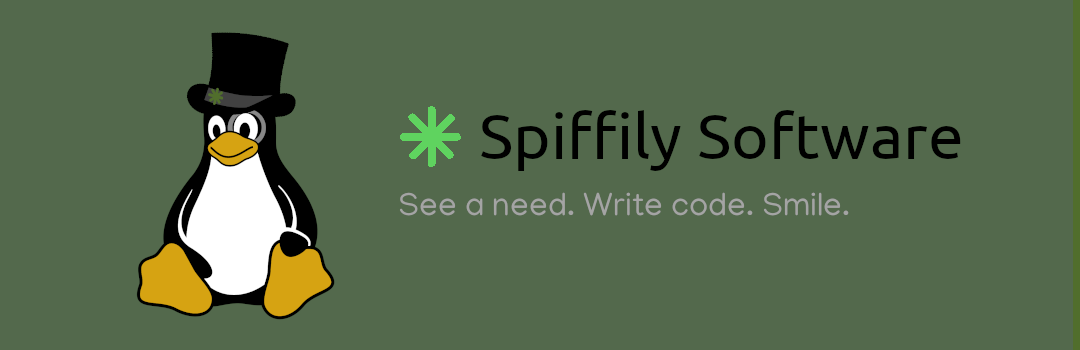
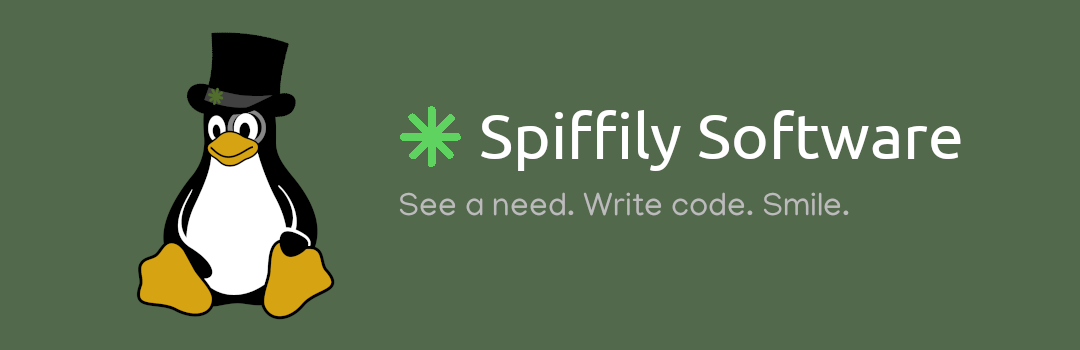
Pretty good start!

Changed region(s): [[0.4278, 0.3143, 0.8861, 0.4857], [0.9778, 0.0, 1.0, 1.0]]

diff --git a/index.html b/index.html
@@ -7,7 +7,35 @@
   <link rel="icon" href="./favicon.png" type="image/png">
 </head>
 <body>
-  <div class="banner" style="width:100%; height:350px; background-image:url('./assets/spiffily-banner.png');"><h1 style="display:none;">Spiffily Software</h1></div>
-  <!-- <img class="banner" src="./assets/Spiffily Banner.png" alt="Spiffily Software"> -->
+  <div class="banner" style="background-image: url(./assets/spiffily-banner.png); height: 350px; background-size: 1080px 350px;"></div>
+  <div class="toolbar">
+    <img src="./assets/spiffily-star.png" style="height:37px;width:37px;" alt="Spiffy Star">
+    <a href="./index.html"><h1>Home</h1></a>
+    <a href="./apps.html"><p>Apps</p></a>
+    <a href="./tutorials.html"><p>Tutorials</p></a>
+    <a href="./resources.html"><p>Resources</p></a>
+    <a href="./about.html"><p>About</p></a>
+  </div>
+
+  <div class="row">
+    <p>Spiffily Software is a software development group which writes code. Yes.</p>
+    <a href="#">Go to repository >>></a>
+    <p>That is to say, we are a group of developers who sees a need and responds by writing code. Our collection of code is hosted and published as a team. Our code, tutorials and resources are free and open-source forever. Please enjoy!</p>
+  </div>
+  <div class="banner row" style="background-image: url(./assets/cougar-backdrop.jpg);">
+    <h1>The Coronado App</h1>
+    <p>Sometimes it's just a little annoying to log into and check every single website that different teachers use (all for good reasons too)! Wouldn't it be nice if all the sites, notifications, assignments and calendars where in one place? Now they are. That's what this app if for.</p>
+    <b>The first release is scheduled for August 17!</b>
+  </div>
+  <div class="row">
+    <p>Spiffily Software is a software development group which writes code. Yes.</p>
+    <a href="#">Go to repository >>></a>
+    <p>That is to say, we are a group of developers who sees a need and responds by writing code. Our collection of code is hosted and published as a team. Our code, tutorials and resources are free and open-source forever. Please enjoy!</p>
+  </div>
+  <div class="banner row" style="background-image: url(./assets/cougar-backdrop.jpg);">
+    <h1>The Coronado App</h1>
+    <p>Sometimes it's just a little annoying to log into and check every single website that different teachers use (all for good reasons too)! Wouldn't it be nice if all the sites, notifications, assignments and calendars where in one place? Now they are. That's what this app if for.</p>
+    <b>The first release is scheduled for August 17!</b>
+  </div>
 </body>
 </html>

diff --git a/index.css b/index.css
@@ -1,13 +1,77 @@
+@import url('https://fonts.googleapis.com/css2?family=Chilanka&family=Dancing+Script:wght@500&family=Inconsolata:wght@500&family=Lobster+Two:ital@1&family=Quicksand:wght@500&display=swap');
 
+/* font-family: 'Chilanka', cursive;
+font-family: 'Dancing Script', cursive;
+font-family: 'Inconsolata', monospace;
+font-family: 'Lobster Two', cursive;
+font-family: 'Quicksand', sans-serif; */
+
+:root{
+  --primary-color: #4C6E4B; /* var(--primary-color);*/
+  --background-color: grey; /* var(--background-color); */
+  --border-color: #3D583C; /* var(--border-color); */
+}
 
 body{
-  background-color: grey;
+  background-color: var(--background-color);
+  margin:0;
+  /* height: 100%; */
+}
+h1{
+  margin:0;
+  text-align: center;
+  font-family: 'Lobster Two', cursive;
+  color: lightgrey;
+}
+p{
+  font-family: 'Quicksand', sans-serif;
+}
+a{
+  font-family: 'Quicksand', sans-serif;
+  color: lightgrey;
+  text-decoration: none;
+  transition:text-shadow 0.75s linear 0s;
+  /* transition:color 0.75s linear 0s; */
+}
+a:hover{
+  font-family: 'Chilanka', cursive;
+  color: white;
+  text-shadow: 2px 2px var(--border-color);
+  transition:color 0.75s linear 0s;
 }
 .banner{
-  background-attachment:fixed;
-  /* background-position: center; /* Center the image */ */
-  min-height: 500px;
-  background-repeat: no-repeat; /* Do not repeat the image */
-  /* background-size: cover; /* Resize the background image to cover the entire container */ */
 
+  background-color: var(--primary-color);;
+  background-attachment: fixed;
+  background-position: top center;
+  background-repeat: no-repeat;
+  /* background-size: contain; */
+}
+.row{
+  padding: 2%;
+}
+.toolbar{
+  position: sticky;
+  top:7px;
+
+  margin: 7px;
+  height: 45px;
+  background-color: var(--primary-color);
+  border-color: var(--border-color);
+  border-width: 5px;
+  border-radius: 50px;
+
+  display: flex;
+  flex-wrap: nowrap;
+  justify-content: center;
+  align-items: center;
+}
+.toolbar > * {
+  padding:0 5px;
+  margin:0 5px;
+}
+.toolbar > a > p{
+  color: lightgrey;
+  font-family:'Chilanka', cursive;
+  font-size: 20px;
 }
